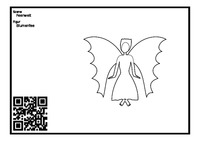
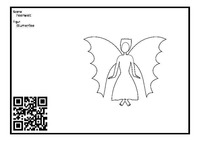
update-static-content: Avoid scaling images up

diff --git a/update-static-content.py b/update-static-content.py
@@ -38,7 +38,7 @@ def generate_resized_image(source, variant='', conversion='jpg', levels=[]):
     if levels:
         command += ['-level', ','.join(level.strip() for level in levels)]
     command += [
-        '-resize', f'{width}x{int(width*1.33333)}',
+        '-resize', f'{width}x{int(width*1.33333)}>',
         '-background', 'white',
         '-flatten',
         target,
